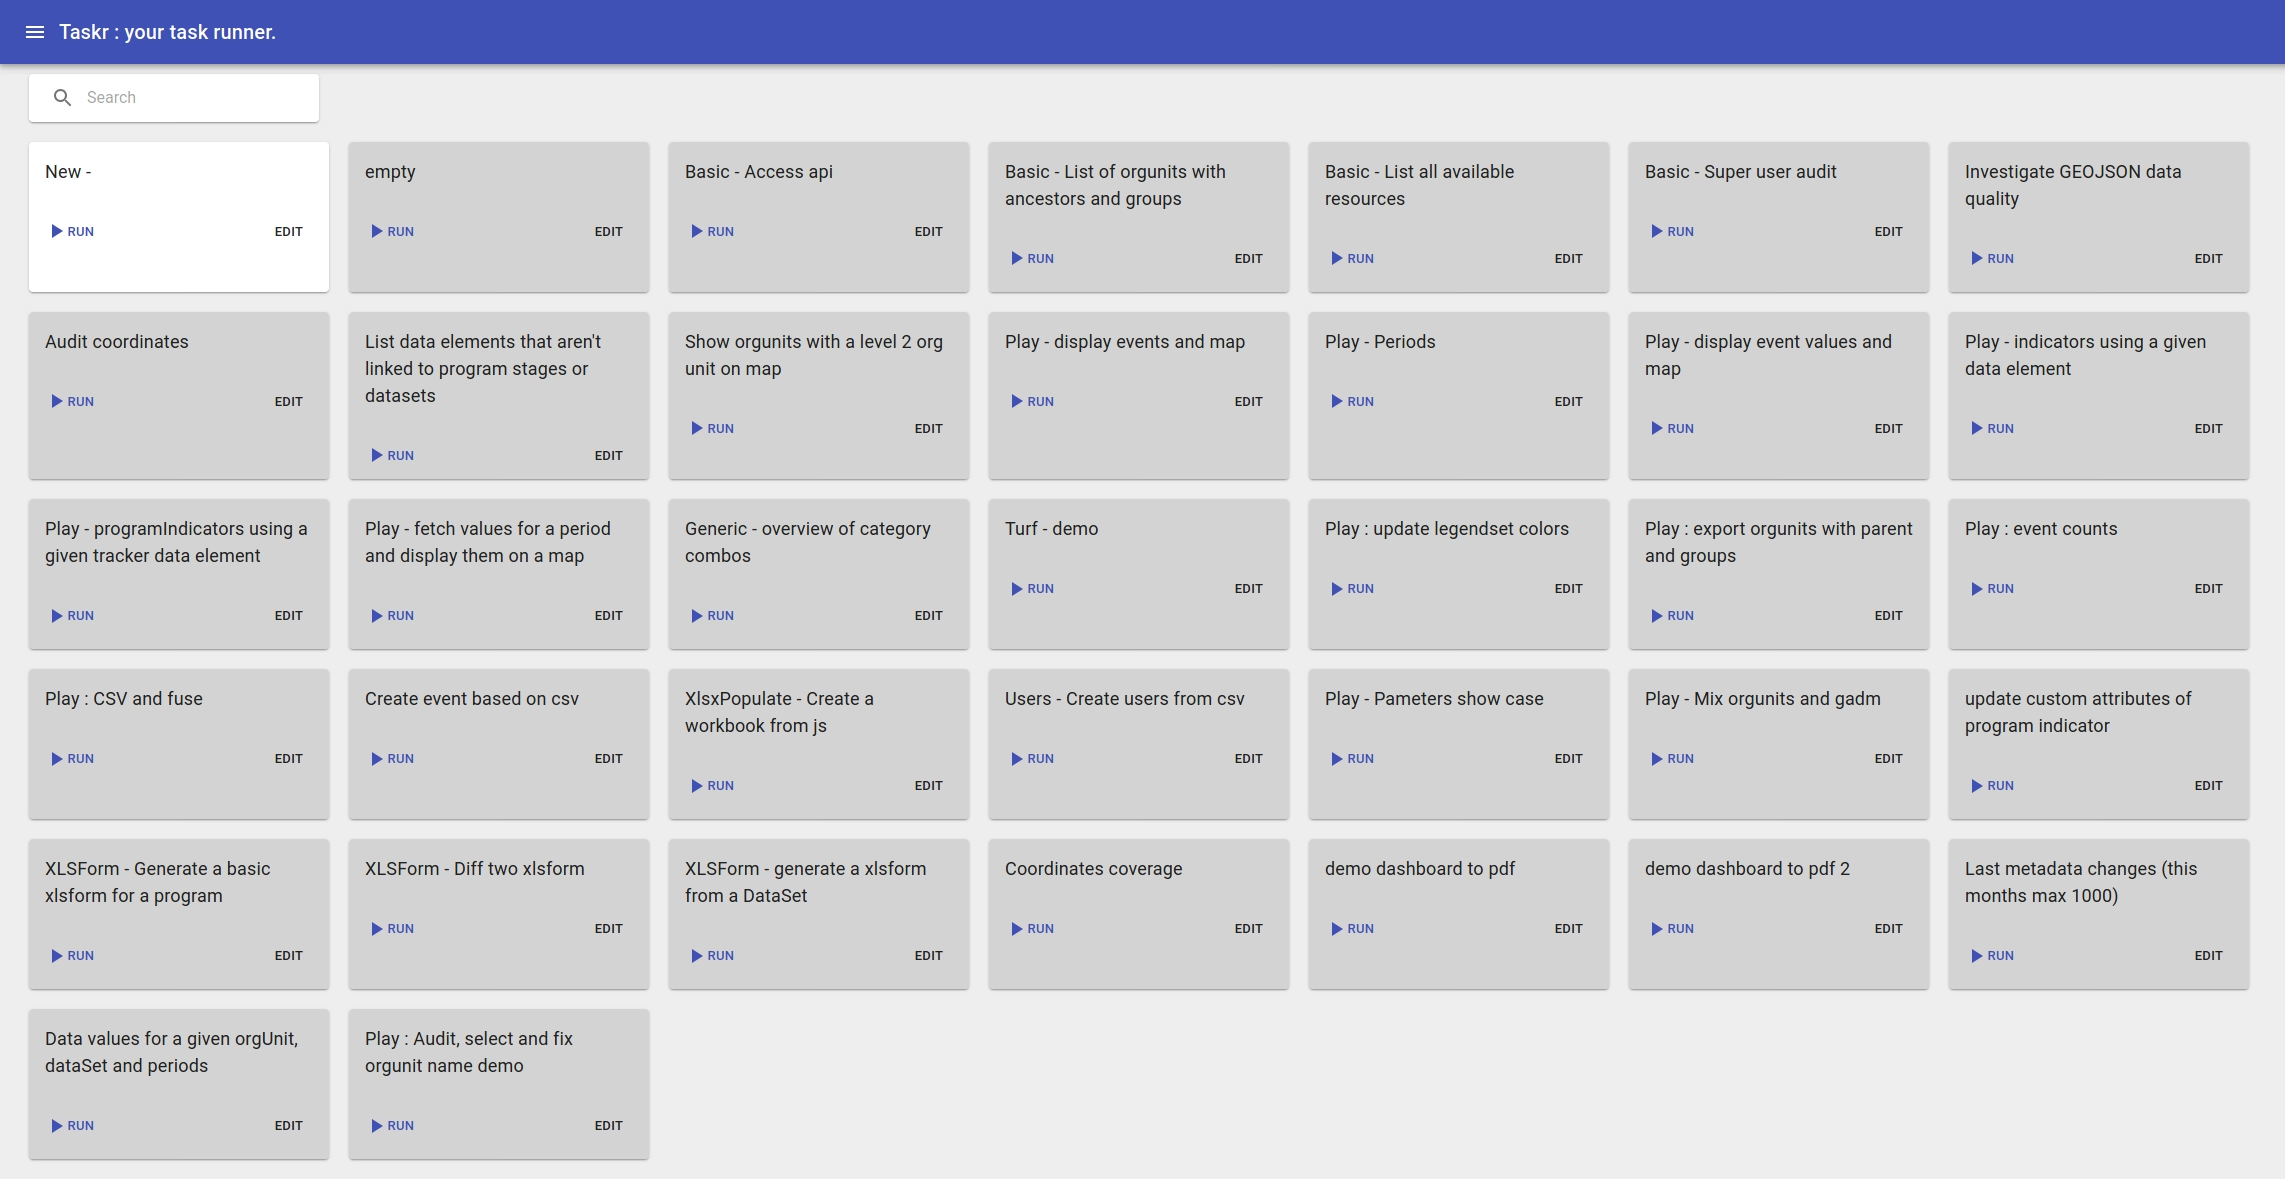
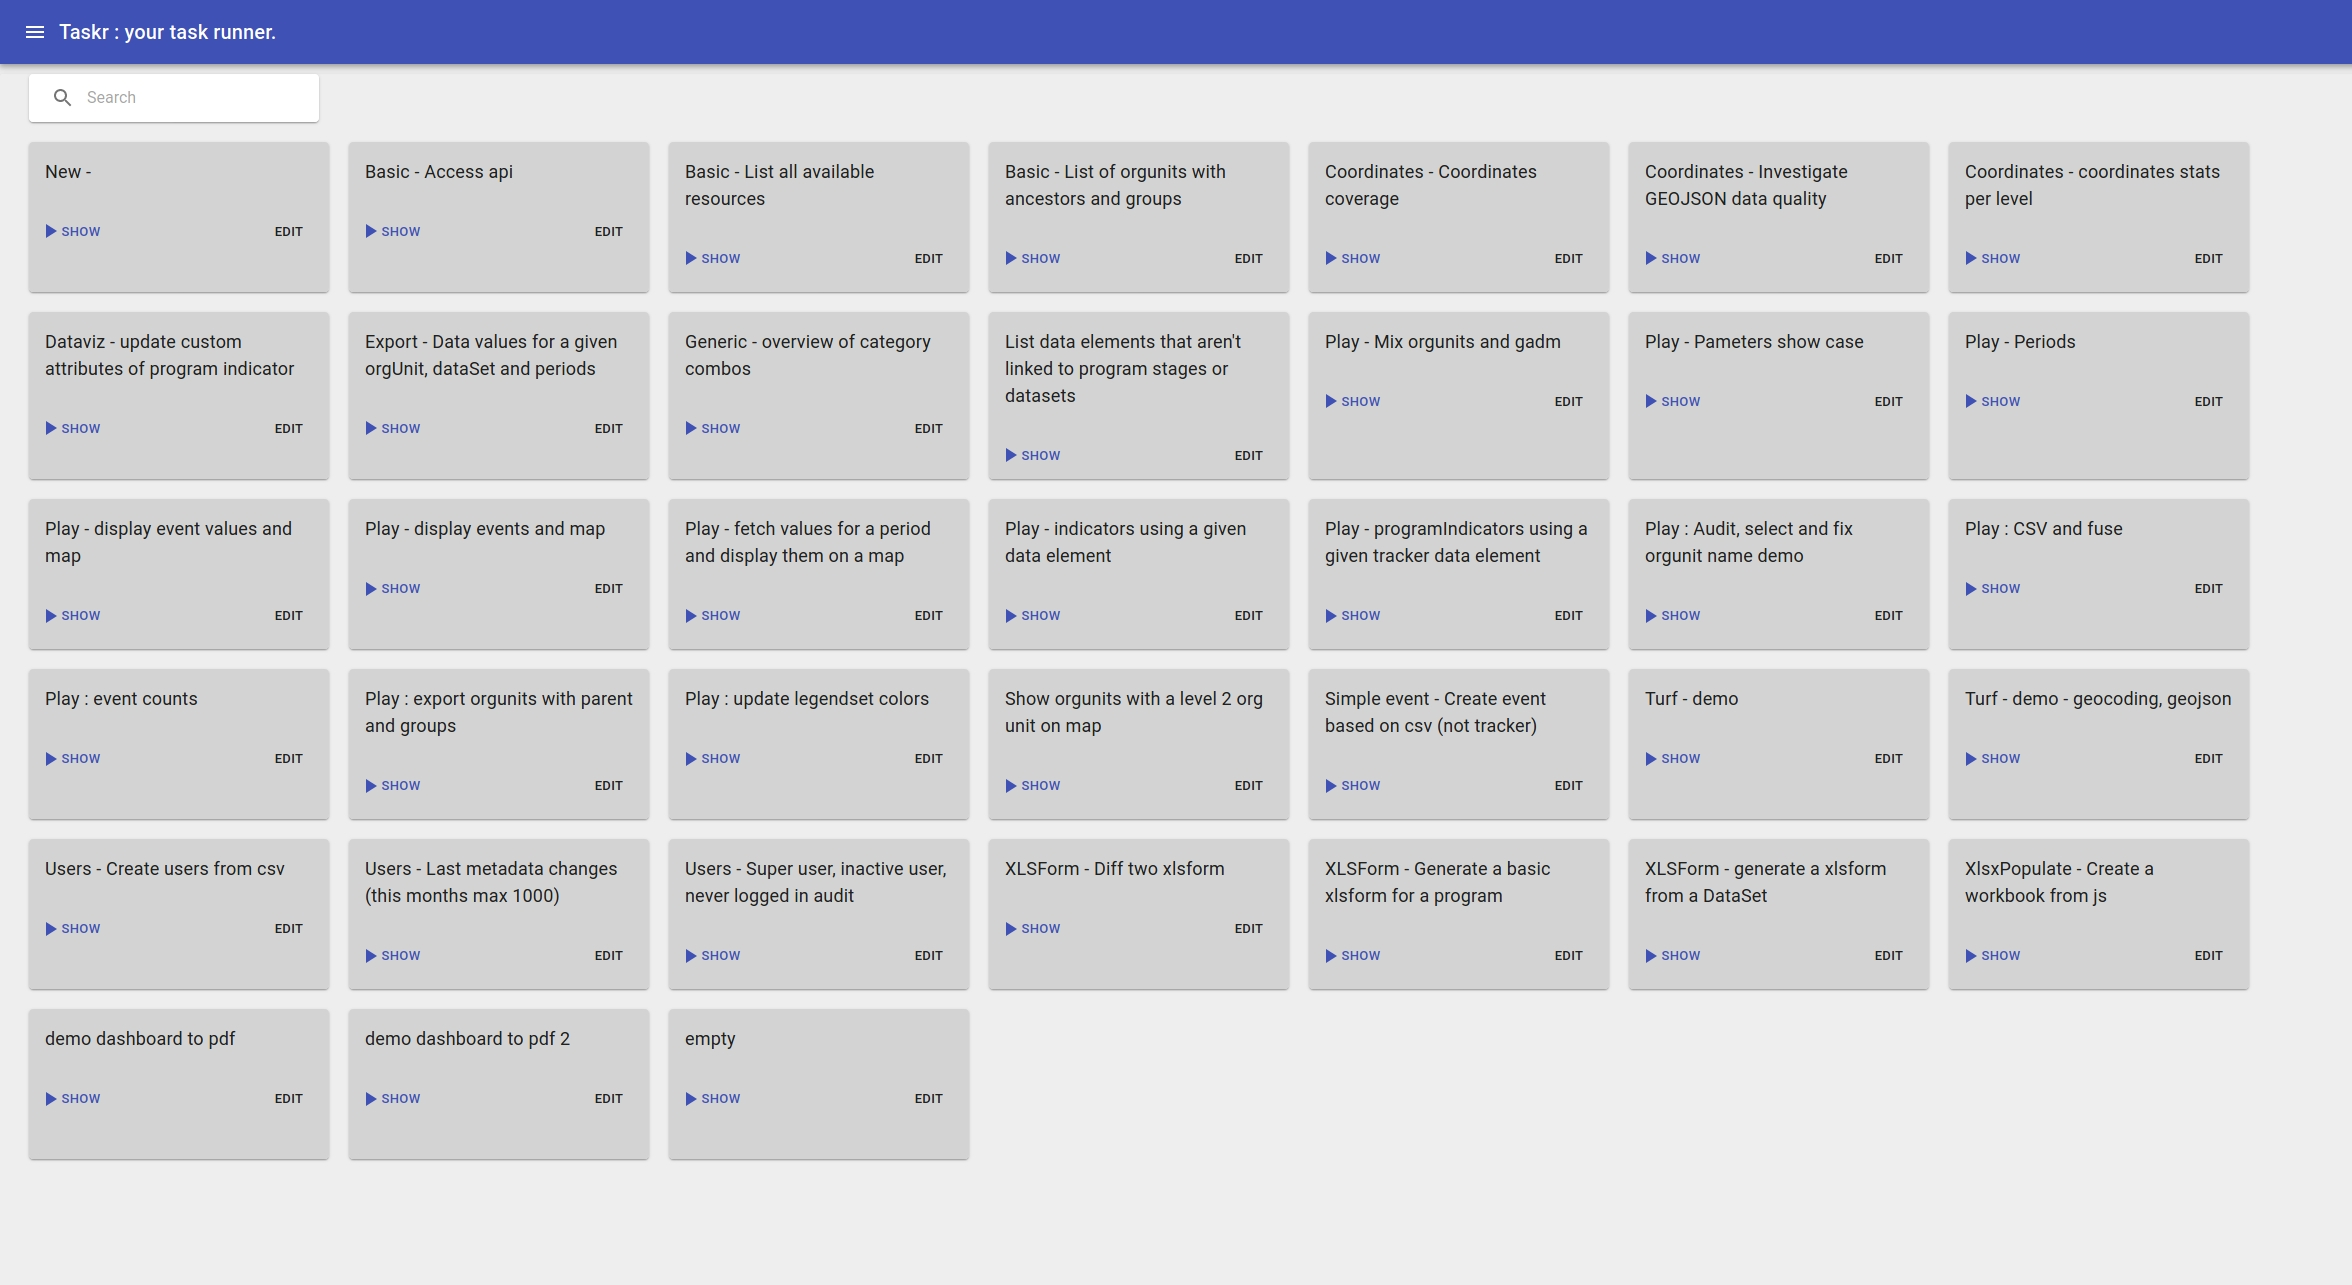
Last TODO and fixes to user manual

diff --git a/src/RecipesPage.js b/src/RecipesPage.js
@@ -1,4 +1,4 @@
-import React, { useState, useEffect } from "react";
+import React, { useState } from "react";
 import Card from "@material-ui/core/Card";
 import CardActions from "@material-ui/core/CardActions";
 import CardContent from "@material-ui/core/CardContent";
@@ -96,8 +96,8 @@ function RecipesPage({ match, recipes }) {
                   href={"#/recipes/" + recipe.id + "/run"}
                   color="primary"
                 >
-                  <PlayArrowIcon />
-                  Run
+                <PlayArrowIcon />
+                  Show
                 </Button>
                 <span style={{ width: "300px" }}></span>
                 <Button size="small" href={"#/recipes/" + recipe.id}>

diff --git a/src/Editor.js b/src/Editor.js
@@ -28,7 +28,6 @@ import prettier from "prettier/standalone";
 import parser from "prettier/parser-babylon";
 
 import Params from "./Params";
-import { TextareaAutosize } from "@material-ui/core";
 
 import IdyllReport from "./IdyllReport";
 import InputLabel from "@material-ui/core/InputLabel";

diff --git a/doc/user-manual.md b/doc/user-manual.md
@@ -2,16 +2,17 @@
 # Table of content
 
 - [Table of content](#table-of-content)
+- [What is TaskR](#what-is-taskr)
 - [Disclaimer](#disclaimer)
 - [Small tour](#small-tour)
   - [Open the app](#open-the-app)
   - [Recipes list](#recipes-list)
   - [Recipe page](#recipe-page)
 - [Historical pains & motivations](#historical-pains--motivations)
-  - [1. Turning an api call results to csv or a map was not easy](#1-turning-an-api-call-results-to-csv-or-a-map-was-not-easy)
-  - [2. Coding a dhis2 app is sometimes too much work for just a one shot specific task](#2-coding-a-dhis2-app-is-sometimes-too-much-work-for-just-a-one-shot-specific-task)
-  - [3. Combining multiple api calls is hard for exemple in postman.](#3-combining-multiple-api-calls-is-hard-for-exemple-in-postman)
-  - [4. Data can come in/out in various format](#4-data-can-come-inout-in-various-format)
+  - [1. Turning api call results into csv or a map was not easy](#1-turning-api-call-results-into-csv-or-a-map-was-not-easy)
+  - [2. Coding a dhis2 app is sometimes too much work for just a specific one-shot task](#2-coding-a-dhis2-app-is-sometimes-too-much-work-for-just-a-specific-one-shot-task)
+  - [3. Combining multiple api calls is hard (for example in postman)](#3-combining-multiple-api-calls-is-hard-for-example-in-postman)
+  - [4. Data can come in and out in various formats](#4-data-can-come-in-and-out-in-various-formats)
   - [5. Sometimes we need JS or GIS super power](#5-sometimes-we-need-js-or-gis-super-power)
   - [6. End user autonomy to re-run the recipe at will](#6-end-user-autonomy-to-re-run-the-recipe-at-will)
   - [7. Standard recipes reusable accross dhis2](#7-standard-recipes-reusable-accross-dhis2)
@@ -19,16 +20,16 @@
   - [9. Recipe can return more than a table](#9-recipe-can-return-more-than-a-table)
   - [10. Accessing multiple dhis2 instances](#10-accessing-multiple-dhis2-instances)
 - [Getting started](#getting-started)
-  - [Install the app](#install-the-app)
+  - [Installing the app](#installing-the-app)
   - [Standard recipes](#standard-recipes)
     - [Users - Super user, inactive user, never logged in audit](#users---super-user-inactive-user-never-logged-in-audit)
-    - [Users : Create users based on a csv](#users--create-users-based-on-a-csv)
-    - [Coordinates](#coordinates)
+    - [Users - Create users based on a csv](#users---create-users-based-on-a-csv)
+    - [Organisation Units - Coordinates](#organisation-units---coordinates)
     - [XLSForm - Generate a basic xlsform for a program](#xlsform---generate-a-basic-xlsform-for-a-program)
     - [XLSForm - generate a xlsform from a DataSet](#xlsform---generate-a-xlsform-from-a-dataset)
     - [XLSForm - Diff two xlsform](#xlsform---diff-two-xlsform)
     - [Dataviz - update custom attributes of program indicator](#dataviz---update-custom-attributes-of-program-indicator)
-    - [Your recipe ?](#your-recipe-)
+    - [Your recipe?](#your-recipe)
   - [Specific recipes](#specific-recipes)
 - [Coding tutorial](#coding-tutorial)
   - [Turn an api call in to a csv](#turn-an-api-call-in-to-a-csv)
@@ -46,6 +47,12 @@
     - [If the recipe is here to stay](#if-the-recipe-is-here-to-stay)
   - [Want more?](#want-more)
 
+
+# What is TaskR
+
+TaskR is a way to create and run scripts called "recipes" that can interacts with the DHIS2 api and generate table, maps or various type of output.
+
+Think "Small Jupyther Notebooks" for dhis2.
 
 # Disclaimer
 
@@ -79,7 +86,7 @@ The recipes list screen is accessible via the top left hamburger menu icon. A li
    - grey out recipes are "built-in".
    - blank recipees are the ones created and saved in your dhis2
 
-Clicking on the run button, you arrive fill on the recipe page.
+Clicking on the Show button, you arrive fill on the recipe page.
 
 ## Recipe page
 
@@ -142,14 +149,26 @@ Since the api call is done via javascript, we can easily combine, merge and filt
 
 ```js
 const api = await dhis2.api();
-const elements = await api.get("dataElements", {
+
+const de = await api.get("dataElements", {
+  fields: "id,name,href,domainType",
+  filter: "domainType:eq:TRACKER",
+  paging: false
 });
 
-const programs = await api.get("programs", {
+const programResp = await api.get("programs", {
+  fields: "programStages[programStageDataElements[dataElement[id]]]",
+  paging: false
 });
 
-// TODO: Write out example here
-return _.flattenObjects(ou.organisationUnits, ["geometry"]);
+const usedByPrograms = new Set(
+  programResp.programs
+    .flatMap(program => program.programStages)
+    .flatMap(ps => ps.programStageDataElements.map(psde => psde.dataElement.id))
+);
+
+return de.dataElements.filter(de => !usedByPrograms.has(de.id));
+
 ```
 
 ## 4. Data can come in and out in various formats
@@ -357,10 +376,16 @@ The recipe has a report in markdown referencing these datasets, adding some cont
 Some recipes can access multiple dhis2 instances to "compare" and "align" their metadata.
 This is also possible but requires credentials on both dhis2, and correct CORS settings.
 
+Make sure the password is passed as a param or prompting it to avoid storing in "clear" in the dhis2 datastore.
+
 ```js
+
+const user = prompt("Please enter the username of the source dhis2", "admin");
+const password = prompt("Please enter the password of the source dhis2");
+
 const apiDestination = await dhis2.api();
-// TODO: What is apiIhp here?
-const apiSource = _.cloneDeep(apiIhp);
+
+const apiSource = _.cloneDeep(apiDestination);
 
 apiSource.setBaseUrl("https://source.dshi2.org/api");
 
@@ -387,7 +412,7 @@ The prefered installation mode is via the application management app and the [dh
       - Last login more than 6 months
       - All enabled users
 
-### Users : Create users based on a csv
+### Users - Create users based on a csv
 
 Takes a csv like
 
@@ -400,7 +425,7 @@ and creates corresponding users.
 You can run the recipe in dryMode first to see the end result.
 Once ok select the create mode.
 
-### Coordinates
+### Organisation Units - Coordinates
 
 **Coordinates - Coordinates coverage**
 
@@ -755,4 +780,4 @@ Make sure it defaults to true ;)
 
 ## Want more?
 
-see the [recipes.js](https://github.com/BLSQ/dhis2-taskr/blob/master/src/recipes.js) for inspirations
+See the [recipes.js](https://github.com/BLSQ/dhis2-taskr/blob/master/src/recipes.js) for inspirations
